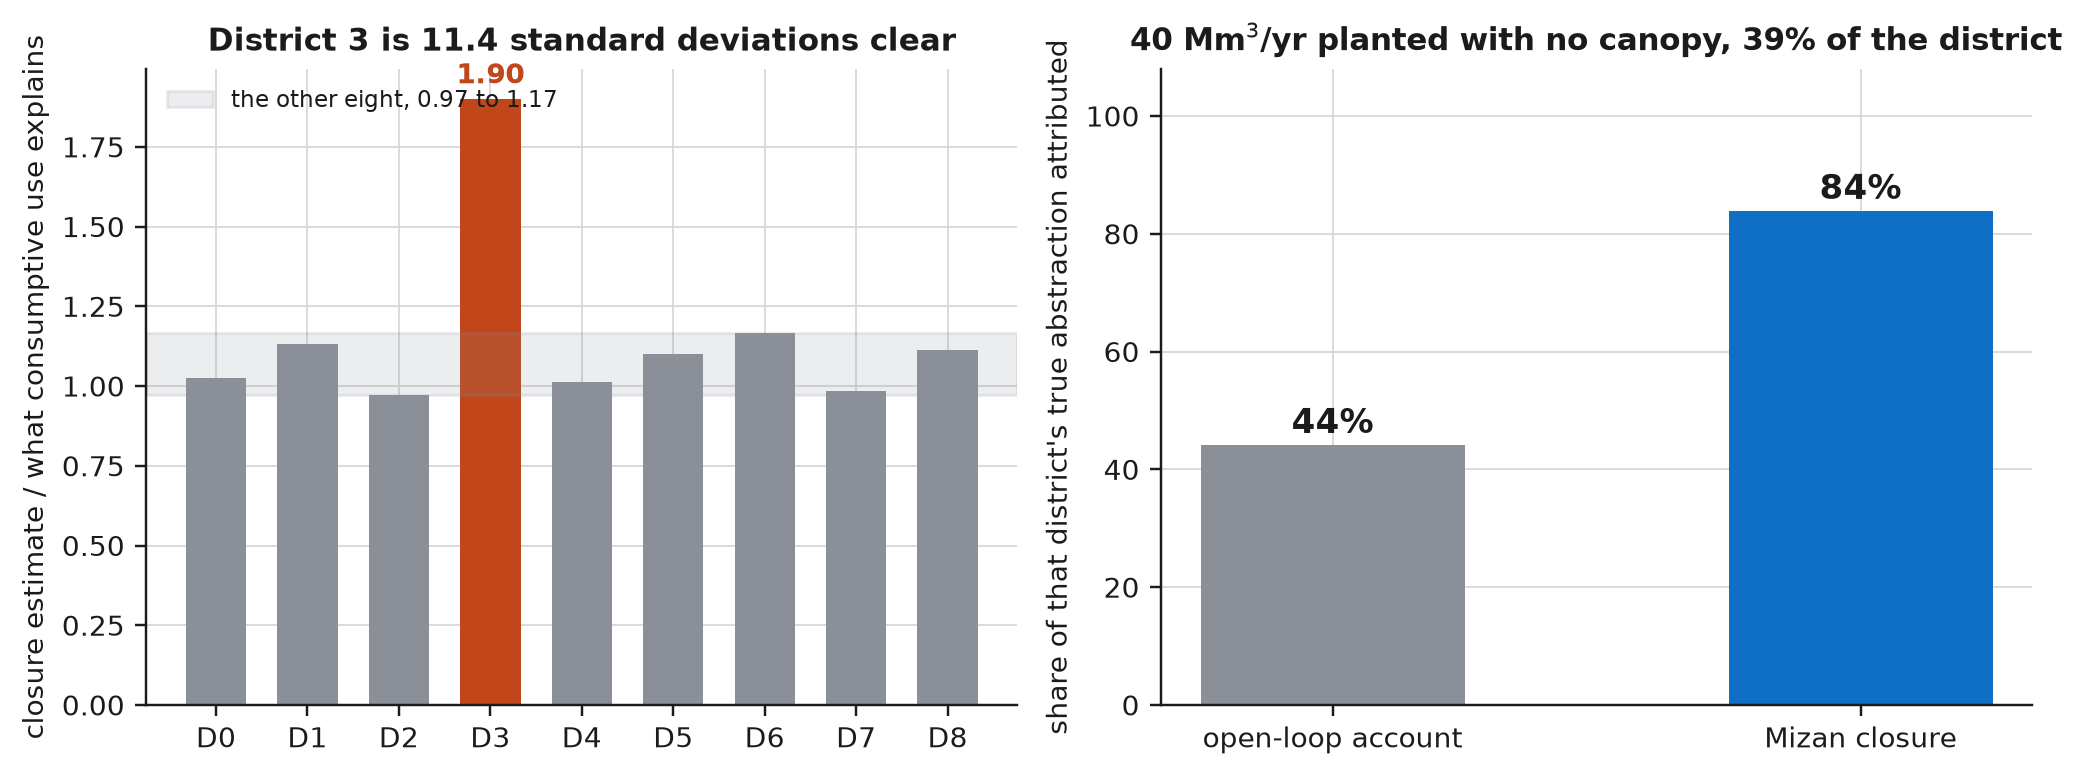
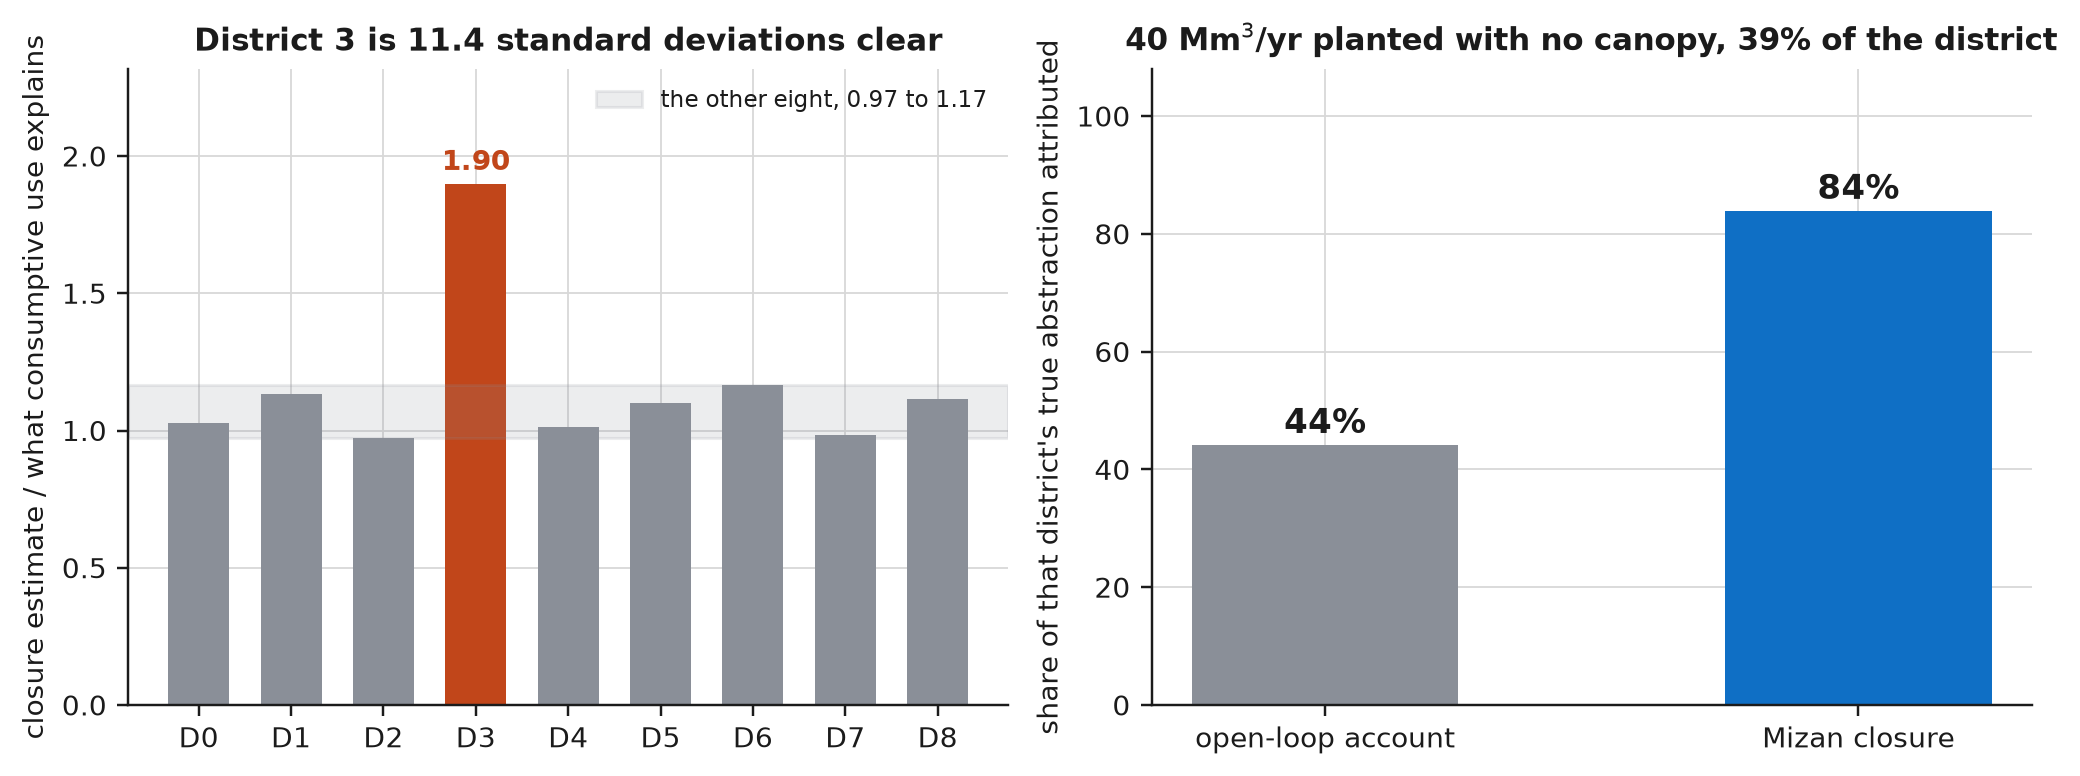
Kansas: extrapolate the initial water table, bound the layer, and score the package

diff --git a/src/mizan/ks_run.py b/src/mizan/ks_run.py
@@ -101,7 +101,20 @@ def make_context(region: K.Region, wl: dict, weight: np.ndarray = None) -> Conte
     lat = np.array([w["lat"] for w in wells])
     head = np.array([w["head"] for w in wells])          # (nwell, NYEAR)
 
-    first = np.array([w["head"][np.isfinite(w["head"])][0] for w in wells])
+    # The water table at the start of the record. Wells enter the network in different
+    # years, so taking each well's first measurement would put a 2015 water level on the
+    # map as though it were a 2000 one. Each record is extrapolated back along its own
+    # linear trend, which is what a declining unconfined aquifer follows at this scale.
+    yy = np.arange(NYEAR, dtype=float)
+    first = np.empty(len(wells))
+    for i, w in enumerate(wells):
+        h = np.asarray(w["head"], dtype=float)
+        ok = np.isfinite(h)
+        if ok.sum() >= 3:
+            b, a = np.polyfit(yy[ok], h[ok], 1)
+            first[i] = a
+        else:
+            first[i] = h[ok][0]
     h0 = interpolate(region, lon, lat, first)
     row = np.array([w["row"] for w in wells])
     col = np.array([w["col"] for w in wells])
@@ -132,8 +145,8 @@ def prior(region: K.Region, irr_area: np.ndarray) -> Prior:
     q0 = np.log10(np.maximum(irr_area.mean(axis=1) * PRIOR_DEPTH_M, 1.0e6))
     mean[LAYOUT["logq"]] = np.repeat(q0, NYEAR)
     sd[LAYOUT["logq"]] = 0.30
-    lo[LAYOUT["logq"]] = np.repeat(q0, NYEAR) - 1.2
-    hi[LAYOUT["logq"]] = np.repeat(q0, NYEAR) + 1.2
+    lo[LAYOUT["logq"]] = np.repeat(q0, NYEAR) - 0.9
+    hi[LAYOUT["logq"]] = np.repeat(q0, NYEAR) + 0.9
     names += [f"logq_{K.COUNTIES[d]}_{K.YEAR0 + y}" for d in range(NDIST)
               for y in range(NYEAR)]
 
@@ -160,7 +173,9 @@ def prior(region: K.Region, irr_area: np.ndarray) -> Prior:
         names.append(label)
 
     scalar("log_sy", np.log10(0.15), 0.16, np.log10(0.04), np.log10(0.32), "log_sy")
-    scalar("log_bsat", np.log10(40.0), 0.22, np.log10(12.0), np.log10(140.0), "log_bsat")
+    # Saturated thickness. The floor keeps a heavily pumped member from dewatering the
+    # layer outright, which is a numerical failure rather than a hypothesis about Kansas.
+    scalar("log_bsat", np.log10(45.0), 0.20, np.log10(20.0), np.log10(140.0), "log_bsat")
     # Recharge under cropland on the Kansas High Plains is reported between about 5 and
     # 35 mm/yr. The bound at 60 keeps the mass balance from being closed by recharge
     # alone, which is the degeneracy this leg has.
@@ -310,6 +325,10 @@ def forward(x: np.ndarray, ws: Path, ctx: Context) -> dict:
     heads = np.array([hds.get_data(kstpkper=k)[0] for k in hds.get_kstpkper()])
     hds.close()
     heads = heads[1:]                                     # drop the steady state
+    # A member that dewaters a cell carrying an observation has not produced a head
+    # there. It is reported as a failure rather than assimilated as a large number.
+    if not np.isfinite(heads[:, ctx.well_row, ctx.well_col]).all() or             heads[:, ctx.well_row, ctx.well_col].min() < -1.0e5:
+        raise RuntimeError("dry cell at an observation well")
     return observe(x, heads, ctx)
 
 

diff --git a/scripts/05_figures.py b/scripts/05_figures.py
@@ -505,7 +505,8 @@ def fig_detection():
     ax[0].set_xticklabels([f"D{i}" for i in range(ratio.size)])
     ax[0].set_ylabel("closure estimate / what consumptive use explains")
     ax[0].set_title(f"District {d} is {v['z_score']:.1f} standard deviations clear")
-    ax[0].legend(fontsize=7.5, loc="upper left")
+    ax[0].set_ylim(0, ratio.max() * 1.22)
+    ax[0].legend(fontsize=7.5, loc="upper right")
     FG.despine(ax[0])
 
     names = ["open-loop account", "Mizan closure"]

diff --git a/scripts/11_kansas_run.py b/scripts/11_kansas_run.py
@@ -38,8 +38,8 @@ def assemble() -> dict:
 
 def main() -> None:
     ap = argparse.ArgumentParser()
-    ap.add_argument("--ne", type=int, default=200)
-    ap.add_argument("--na", type=int, default=6)
+    ap.add_argument("--ne", type=int, default=250)
+    ap.add_argument("--na", type=int, default=8)
     ap.add_argument("--workers", type=int, default=6)
     ap.add_argument("--seed", type=int, default=5)
     ap.add_argument("--rtps", type=float, default=0.7)
